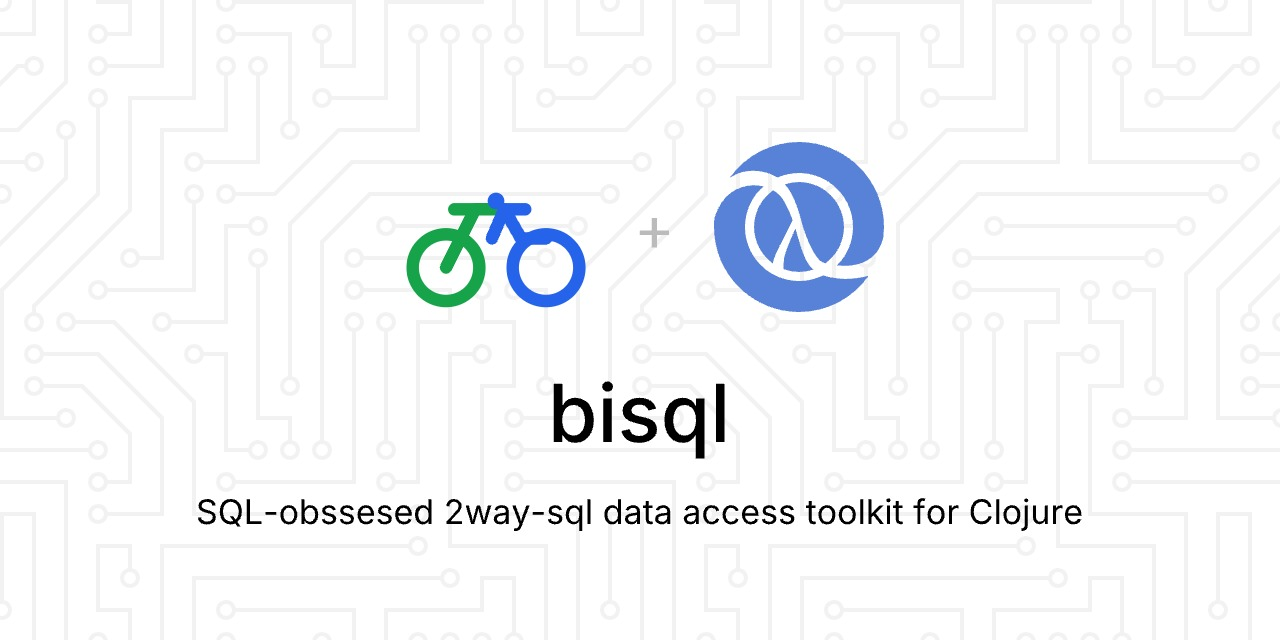
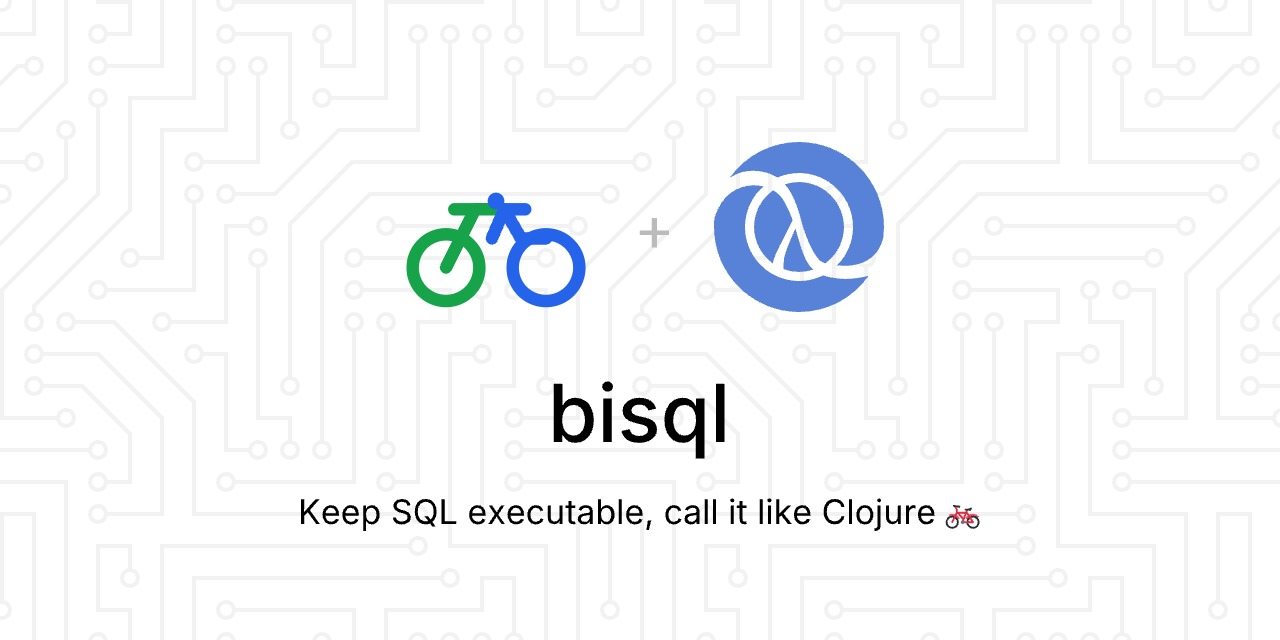
docs(marketing): refresh tagline and social assets

Changed region(s): [[0.1562, 0.7812, 0.8438, 0.8438]]

diff --git a/README.md b/README.md
@@ -8,9 +8,9 @@
   <img src="docs/img/bicycle.svg" alt="Bisql bicycle logo" width="96" height="96" />
 </p>
 
-Bisql (pronounced `báisikl` 🚲) is a SQL-first, SQL-only, SQL-obsessed data access toolkit for Clojure.
+<p align="center"><code>bisql</code> (<code>báisikl</code>)</p>
 
-Write real SQL. Keep it executable. Generate the boring parts.
+Executable SQL as Clojure functions, with generated CRUD queries and SQL-first development.
 
 - Query templates remain valid, executable SQL.
 - Typical index-friendly queries are generated automatically, as comprehensively as possible.
